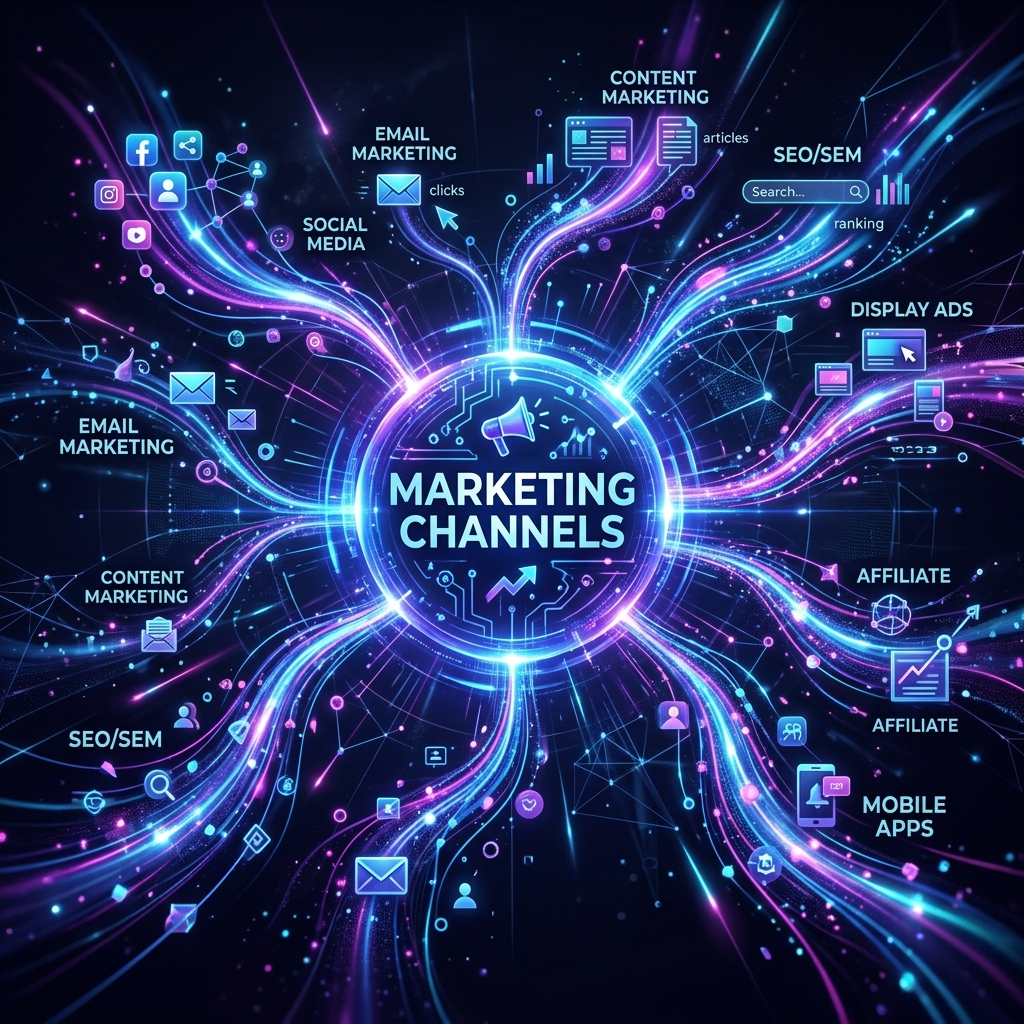
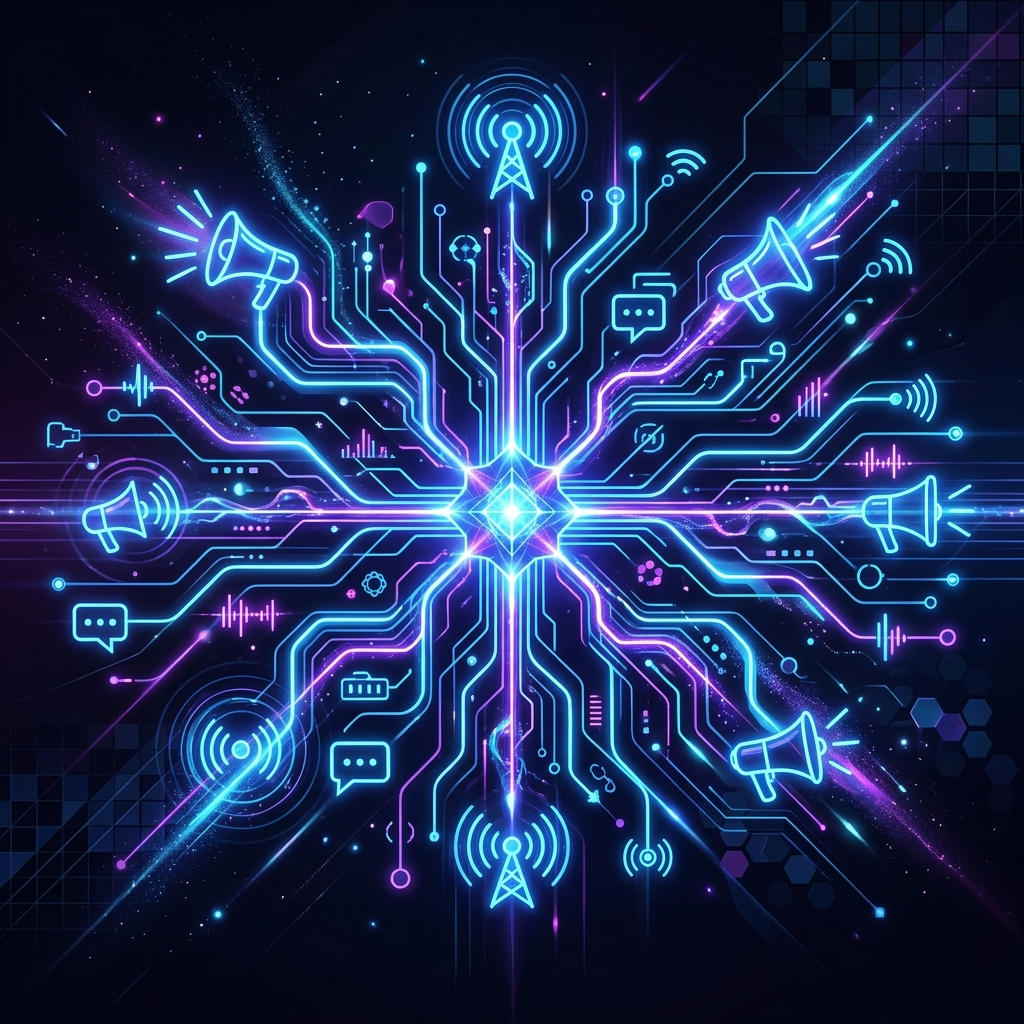
Clean up background images: removed baked-in text and UI elements

diff --git a/style.css b/style.css
@@ -46,7 +46,7 @@ body::before {
     align-items: center;
     text-align: center;
     padding: 0 20px;
-    background: linear-gradient(to bottom, rgba(15, 23, 42, 0.4), var(--bg-dark)), url('innovation_hero_1777241372683.png');
+    background: linear-gradient(to bottom, rgba(15, 23, 42, 0.4), var(--bg-dark)), url('innovation_hero_v2.png');
     background-size: cover;
     background-position: center;
     position: relative;
@@ -390,7 +390,7 @@ footer {
 }
 
 .bg-activities {
-    background-image: url('business_strategy_1777241419473.png');
+    background-image: url('business_strategy.png');
 }
 
 .bg-resources {
